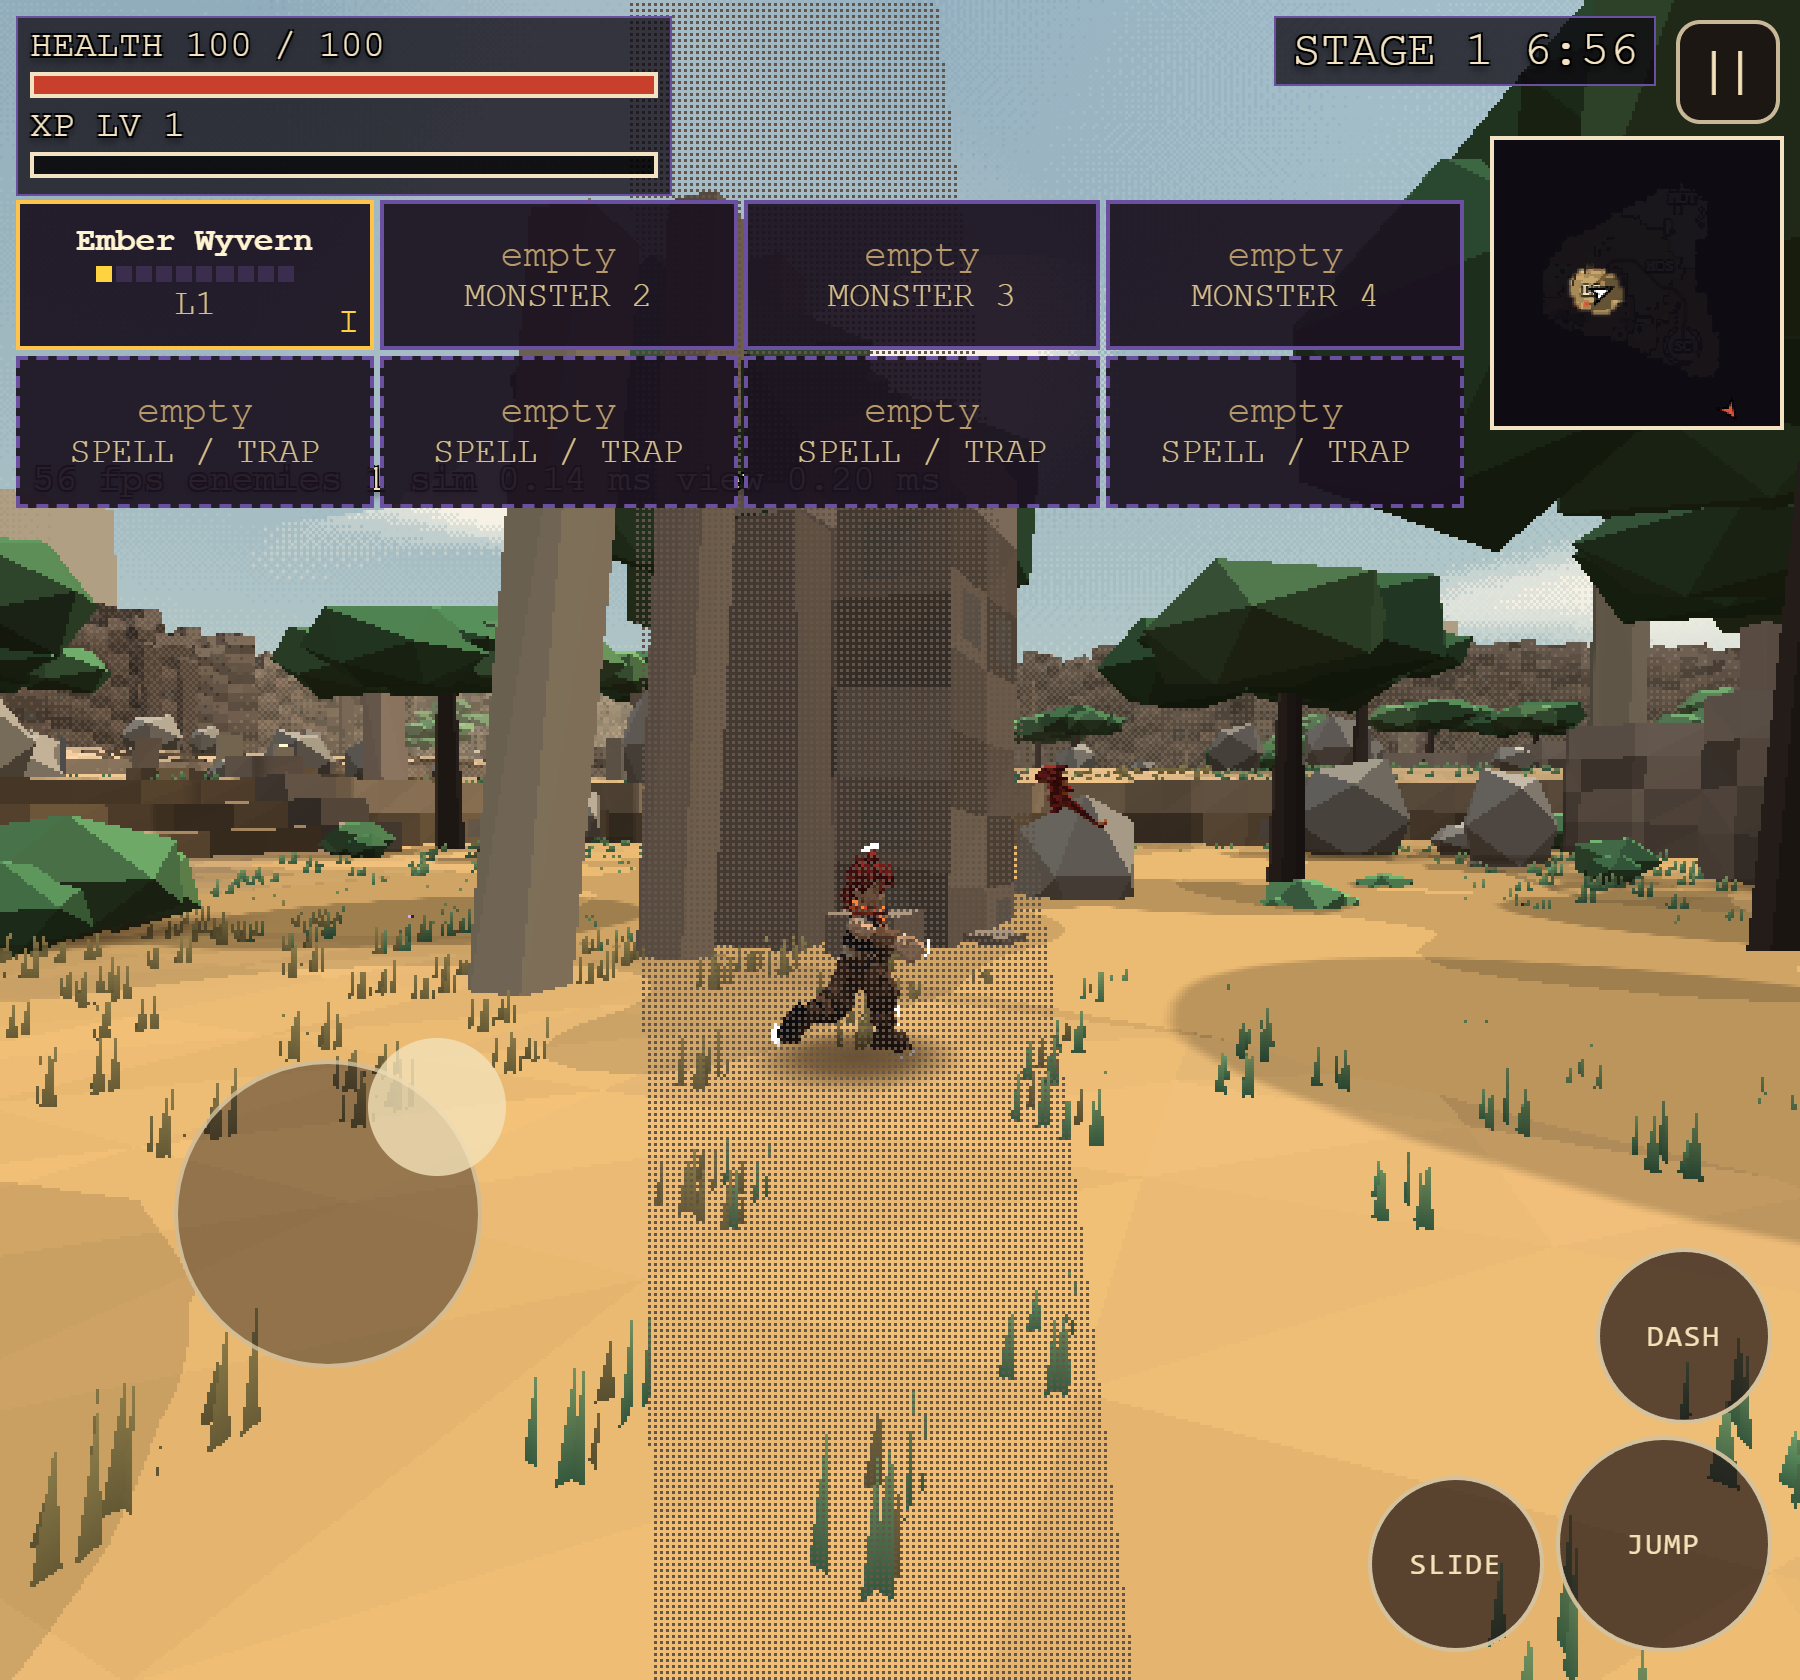
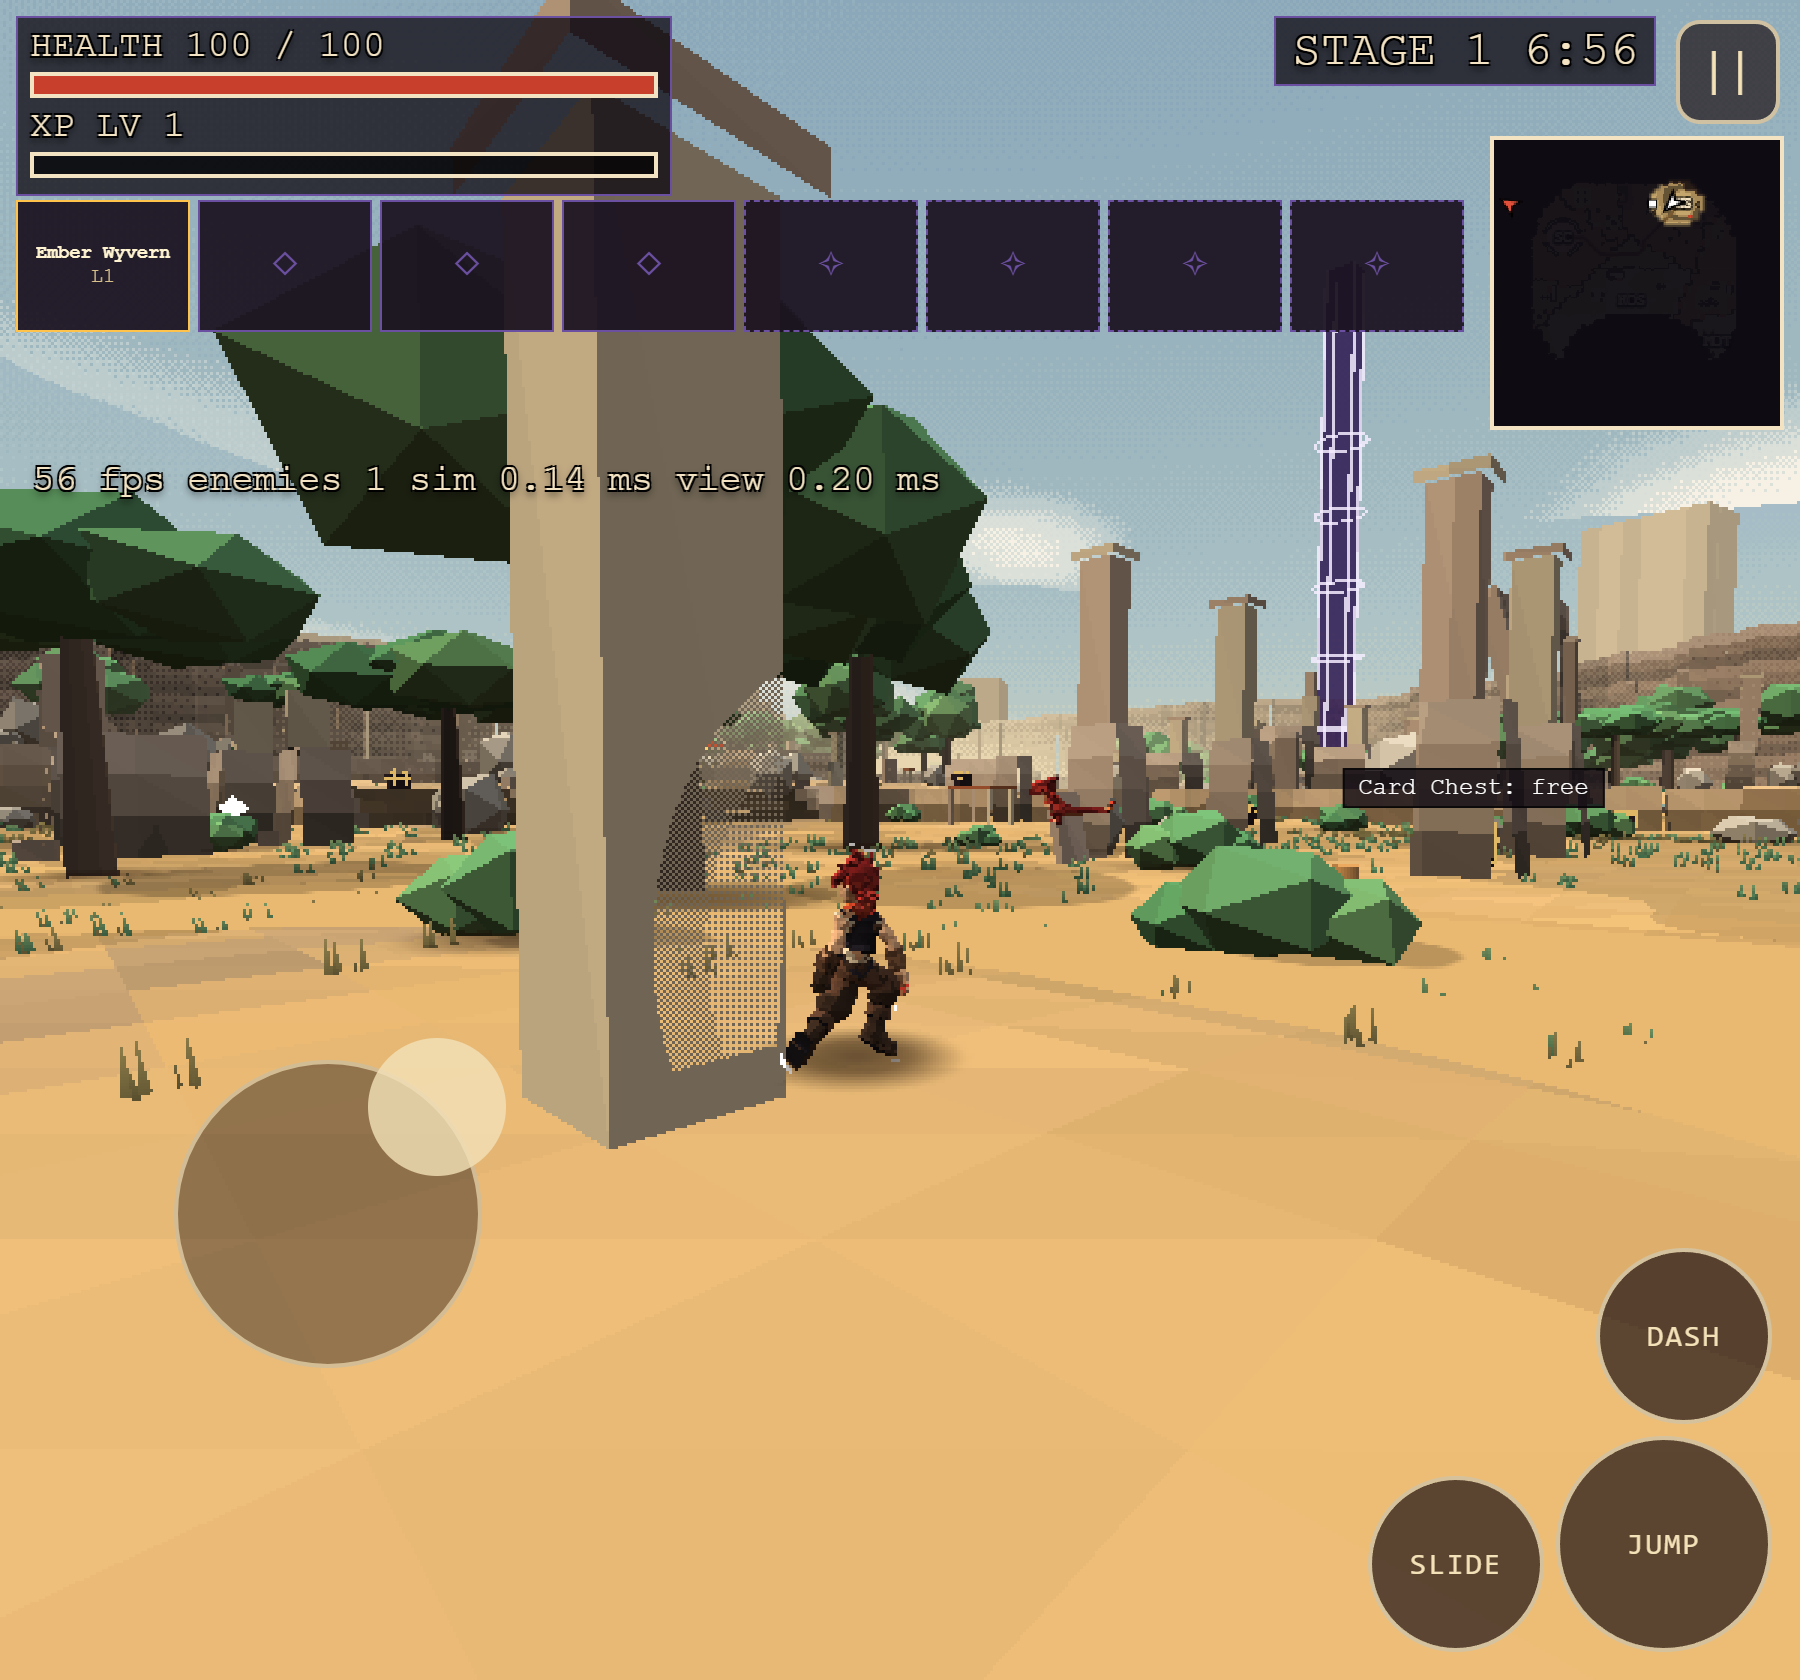
Square and tall touch screens: compact slots, one row of eight small tiles at the top, empty slots show a dashed outline and a small glyph only, the block is under 9% of the screen height and clear of the debug line and the centre 40%; the device test checks it.
Claude-Session: https://claude.ai/code/session_01G4m5sPDpcSeznt8KShqd9B

diff --git a/duelsummoner/index.html b/duelsummoner/index.html
@@ -343,7 +343,10 @@
   @media (max-width:760px) { #qlMap { flex-direction:column; } .qlLegend { max-width:none; font-size:12px; } }
   @media (max-height:520px) { #qlMap { gap:12px; } #fullmap { width:min(80vh, 60vw); height:min(80vh, 60vw); } .qlLegend { font-size:11px; gap:4px; } .qlWrap { gap:4px; } #mapOverlay button { padding:4px 12px; } }    /* Square and tall touch screens (a foldable's inner screen, about 900 x 840 or 840 x 900): the slot row would sit under the jump, slide and dash buttons, so it moves to the top under the HUD row, clear of the minimap; the Full Screen chip is only in the menus there */
   @media (pointer:coarse) and (min-aspect-ratio: 3/4) and (max-aspect-ratio: 13/10) {
-    #zones { top:100px; bottom:auto; left:8px; transform:none; width:calc(100vw - 176px); grid-template-columns:repeat(4, minmax(0, 1fr)); }
+    #zones { top:100px; bottom:auto; left:8px; transform:none; width:calc(100vw - 176px); grid-template-columns:repeat(8, minmax(0, 1fr)); gap:4px; }
+    #zones .zone { height:7.2vh; min-height:0; padding:2px 3px; font-size:11px; border-width:1px; overflow:hidden; display:flex; flex-direction:column; align-items:center; justify-content:center; text-align:center; }
+    #zones .zone .pips, #zones .zone .fm { display:none; } #zones .zone b { font-size:10px; }
+    #zones .zone:not(.full) { font-size:0; } #zones .zone:not(.full) b { display:none; } #zones .zone:not(.full)::after { content:'\25C7'; font-size:18px; color:#6b4fa0; } #zones .zone.st:not(.full)::after { content:'\2727'; }
     #prompt { bottom:190px; } #fusion { bottom:222px; } #itemsList { bottom:210px; }
   }
   @media (pointer:coarse) { body[data-mode=play] #devbar { display:none; } }  </style>
